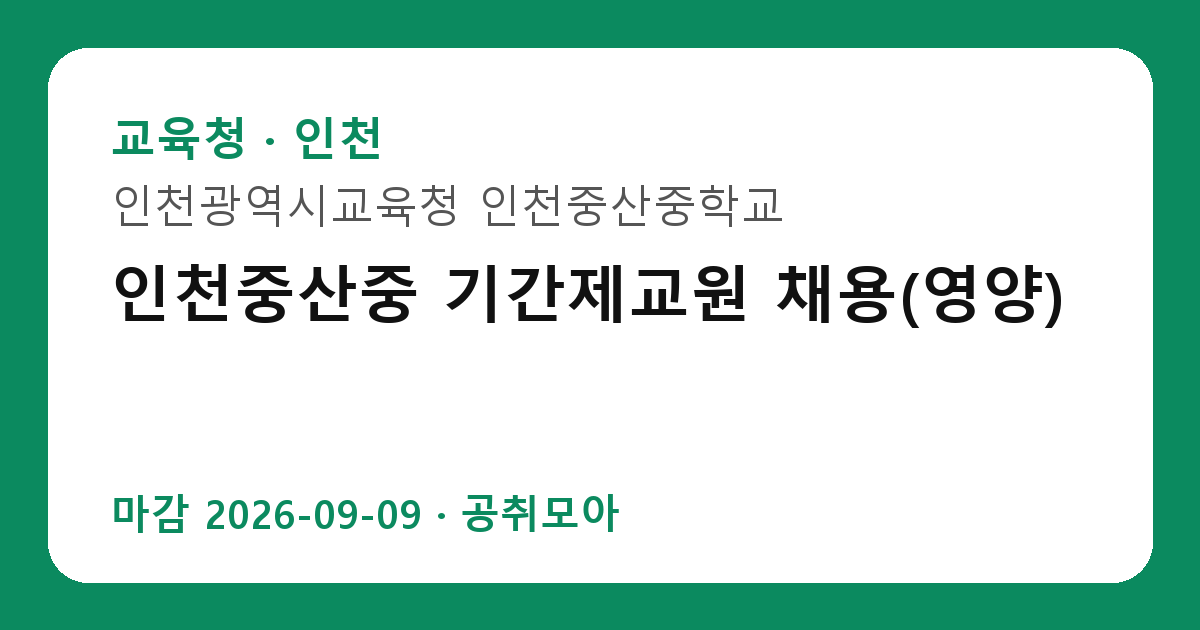
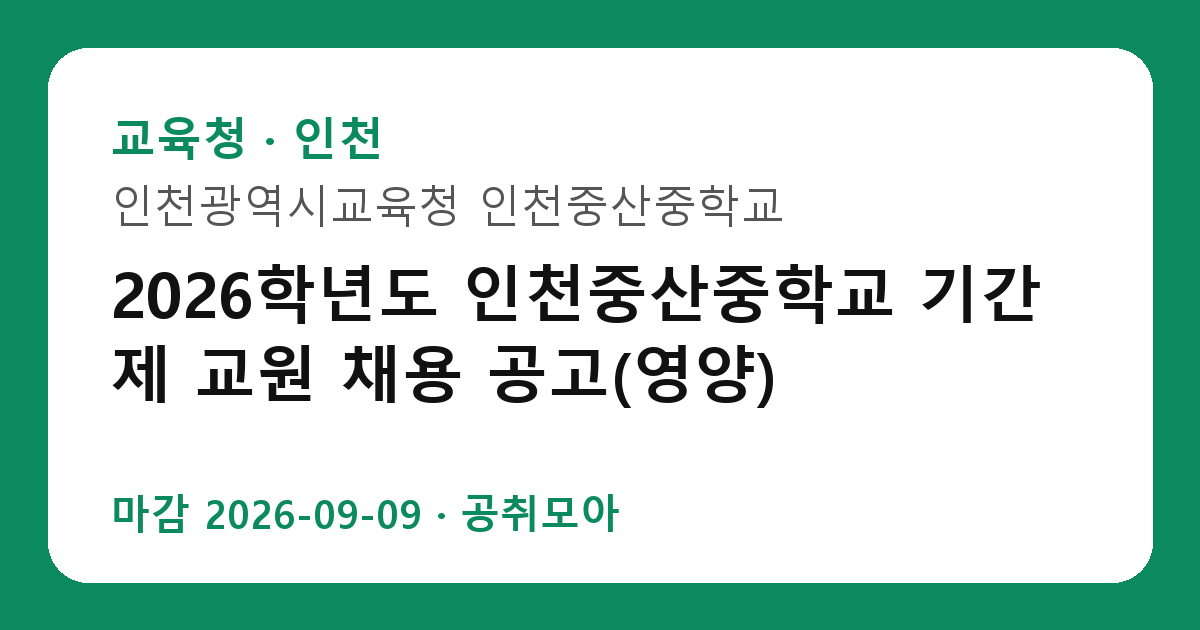
Fix exact posting URLs: 12/12 verified live (empmnsn/idx), real titles

Changed region(s): [[0.0925, 0.4222, 0.8942, 0.5127], [0.0925, 0.5429, 0.6475, 0.6635]]

diff --git a/articles/gojobs-302943.html b/articles/gojobs-302943.html
@@ -1,25 +1,25 @@
 <!DOCTYPE html><html lang="ko"><head><meta charset="UTF-8">
 <meta name="viewport" content="width=device-width, initial-scale=1.0">
-<title>[지자체] 2026년 전주시 홍보담당관(개방형직위) 공개모집 | 공취모아</title>
-<meta name="description" content="전북특별자치도 전주시 2026년 전주시 홍보담당관(개방형직위) 공개모집 정리. 마감 2026-09-21(D-4), 전북·개방형직위. 지원자격·전형·추천대상 해설과 원문 링크.">
-<link rel="canonical" href="https://your-domain/jobs/articles/gojobs-302944.html">
+<title>[지자체] 2026년 전주시 홍보담당관(개방형직위) 공개 모집 | 공취모아</title>
+<meta name="description" content="전북특별자치도 전주시 2026년 전주시 홍보담당관(개방형직위) 공개 모집 정리. 마감 2026-09-21(D-4), 전북·개방형직위. 지원자격·전형·추천대상 해설과 원문 링크.">
+<link rel="canonical" href="https://your-domain/jobs/articles/gojobs-302943.html">
 <meta property="og:type" content="article">
-<meta property="og:title" content="[지자체] 2026년 전주시 홍보담당관(개방형직위) 공개모집 | 공취모아">
-<meta property="og:description" content="전북특별자치도 전주시 2026년 전주시 홍보담당관(개방형직위) 공개모집 정리. 마감 2026-09-21(D-4), 전북·개방형직위. 지원자격·전형·추천대상 해설과 원문 링크.">
-<meta property="og:image" content="https://your-domain/jobs/thumbnails/gojobs-302944.png">
+<meta property="og:title" content="[지자체] 2026년 전주시 홍보담당관(개방형직위) 공개 모집 | 공취모아">
+<meta property="og:description" content="전북특별자치도 전주시 2026년 전주시 홍보담당관(개방형직위) 공개 모집 정리. 마감 2026-09-21(D-4), 전북·개방형직위. 지원자격·전형·추천대상 해설과 원문 링크.">
+<meta property="og:image" content="https://your-domain/jobs/thumbnails/gojobs-302943.png">
 <meta name="google-adsense-account" content="ca-pub-3484572882367046">
 <script async src="https://pagead2.googlesyndication.com/pagead/js/adsbygoogle.js?client=ca-pub-3484572882367046" crossorigin="anonymous"></script>
 <style>*{box-sizing:border-box;margin:0;padding:0}body{font-family:Pretendard,-apple-system,"Noto Sans KR",sans-serif;background:#f4f6fa;color:#222;max-width:760px;margin:0 auto;padding:0 16px 80px}article{background:#fff;border:1px solid #e6ebf4;border-radius:16px;padding:26px 22px;margin-top:18px}h1{font-size:1.35rem;line-height:1.5}h2{font-size:1.08rem;margin:26px 0 10px;padding-left:10px;border-left:4px solid #0b5fff}p,li{line-height:1.8;font-size:.96rem}table{width:100%;border-collapse:collapse;margin:14px 0;font-size:.9rem}th,td{border:1px solid #e2e8f2;padding:9px 10px;text-align:left}th{background:#f2f6ff;width:110px}.lead{background:#f2f6ff;border-radius:12px;padding:14px 16px;margin:16px 0}.cta{display:block;text-align:center;background:#0b5fff;color:#fff;border-radius:12px;padding:14px;margin:20px 0;text-decoration:none;font-weight:700}.back{display:inline-block;margin:18px 0 4px;color:#0b5fff;text-decoration:none}.rel a{display:block;padding:10px 4px;color:#0b5fff;text-decoration:none;border-bottom:1px solid #eef2f9;font-size:.92rem}.muted{color:#888;font-size:.84rem;margin-top:22px}.hero{width:100%;border-radius:12px;margin:14px 0 4px;display:block}</style>
 </head><body><a class="back" href="../">← 공취모아 홈</a><article>
 
-<h1>[지자체] 2026년 전주시 홍보담당관(개방형직위) 공개모집</h1>
+<h1>[지자체] 2026년 전주시 홍보담당관(개방형직위) 공개 모집</h1>
 <p style="color:#666;font-size:.9rem;margin-top:8px">전북특별자치도 전주시 · 전북 · 마감 2026-09-21 <b>(D-4)</b> · 출처 나라일터</p>
-<img class="hero" src="../thumbnails/gojobs-302944.png" alt="2026년 전주시 홍보담당관(개방형직위) 공개모집 썸네일" loading="lazy">
+<img class="hero" src="../thumbnails/gojobs-302943.png" alt="2026년 전주시 홍보담당관(개방형직위) 공개 모집 썸네일" loading="lazy">
 <div class="lead">핵심만 먼저: <b>전북특별자치도 전주시</b>에서 <b>개방형직위</b>을 뽑습니다. 마감이 <b>2026-09-21(D-4)</b>이라 서두르는 게 좋습니다. 지자체 채용은 거주 요건·임용 지역을 먼저 확인하세요. 지역인재 가점이 붙는 경우가 많습니다.</div>
 <h2>한눈에 보는 모집 조건</h2>
 <table>
 <tr><th>기관</th><td>전북특별자치도 전주시</td></tr>
-<tr><th>공고명</th><td>2026년 전주시 홍보담당관(개방형직위) 공개모집</td></tr>
+<tr><th>공고명</th><td>2026년 전주시 홍보담당관(개방형직위) 공개 모집</td></tr>
 <tr><th>고용형태</th><td>개방형직위</td></tr>
 <tr><th>근무지</th><td>전북</td></tr>
 <tr><th>게시일</th><td>2026-09-04</td></tr>
@@ -56,9 +56,9 @@
 <ul>
 <li><b>마감일(2026-09-21)을 넘기면 지원할 수 있나요?</b><br>없습니다. 공공 채용은 마감 시각 이후 접수를 받지 않습니다. 시스템 마감 1시간 전에는 대기열이 길어지니 D-4을 보고 미리 제출하세요.</li><li><b>전북 외 거주자도 지원 가능한가요?</b><br>공고에 거주 제한이 별도로 없으면 전국 지원이 가능합니다. 다만 일부 지자체·교육청 공고는 거주·이전 조건이 붙으니 원문 응시자격란을 확인하세요.</li><li><b>개방형직위 전형에서 가장 중요한 서류는 무엇인가요?</b><br>직무 연관성을 보여주는 자기소개서와 증빙(자격증·경력증명서)입니다. 전북특별자치도 전주시 심사는 정량(자격·경력)과 정성(지원동기·직무이해)을 함께 봅니다.</li>
 </ul>
-<a class="cta" href="https://www.gojobs.go.kr/apmView.do?empmnsn=302944&menuNo=401&selMenuNo=400" target="_blank" rel="noopener">원문 공고문 확인하고 지원하기 ↗</a>
+<a class="cta" href="https://www.gojobs.go.kr/apmView.do?empmnsn=302943&menuNo=401&selMenuNo=400" target="_blank" rel="noopener">원문 공고문 확인하고 지원하기 ↗</a>
 
-<div class="rel"><h2>함께 보면 좋은 공고</h2><a href="gojobs-302941.html">[지자체] 충북 산림바이오센터 연구보조 기간제근로자 모집 — 마감 2026-09-14</a><a href="gojobs-302789.html">[교육청] 인천중산중 기간제교원 채용(영양) — 마감 2026-09-09</a><a href="gojobs-302934.html">[교육청] 2026학년도 충훈고 시간강사 채용(체육) — 마감 2026-09-10</a></div>
+<div class="rel"><h2>함께 보면 좋은 공고</h2><a href="gojobs-302941.html">[지자체] 2026년 산림바이오센터 연구 보조 기간제근로자 모집공고 — 마감 2026-09-14</a><a href="gojobs-302789.html">[교육청] 2026학년도 인천중산중학교 기간제 교원 채용 공고(영양) — 마감 2026-09-09</a><a href="gojobs-302934.html">[교육청] 2026학년도 충훈고 시간강사 채용(체육) — 마감 2026-09-10</a></div>
 <p class="muted">출처: 나라일터 공개정보를 바탕으로 공취모아가 정리한 안내글입니다. 모집 조건·일정은 변경될 수 있으니 지원 전 반드시 원문 공고문을 확인하세요. 본 글은 정보 제공용이며 합격을 보장하지 않습니다.</p>
 </article>
 <footer style="text-align:center;color:#888;font-size:.82rem;margin:30px 0;line-height:2"><a style="color:#888" href="../about.html">소개</a>·<a style="color:#888" href="../privacy.html">개인정보</a>·<a style="color:#888" href="../terms.html">약관</a>·<a style="color:#888" href="../contact.html">문의</a></footer>

diff --git a/articles/gojobs-302940.html b/articles/gojobs-302940.html
@@ -1,25 +1,25 @@
 <!DOCTYPE html><html lang="ko"><head><meta charset="UTF-8">
 <meta name="viewport" content="width=device-width, initial-scale=1.0">
-<title>[교육청] 전북교육청 지방일반임기제 공무원(인권상담·조사) 채용 | 공취모아</title>
-<meta name="description" content="전북특별자치도교육청 전북교육청 지방일반임기제 공무원(인권상담·조사) 채용 정리. 마감 2026-09-14(마감), 전북·임기제. 지원자격·전형·추천대상 해설과 원문 링크.">
+<title>[교육청] 전북특별자치도교육청 지방일반임기제공무원(인권침해상담·조사분야) 경력경쟁임용시험 시행 계획 공고 | 공취모아</title>
+<meta name="description" content="전북특별자치도교육청 전북특별자치도교육청 지방일반임기제공무원(인권침해상담·조사분야) 경력경쟁임용시험 시행 계획 공고 정리. 마감 2026-09-14(마감), 전북·임기제. 지원자격·전형·추천대상 해설과 원문 링크.">
 <link rel="canonical" href="https://your-domain/jobs/articles/gojobs-302940.html">
 <meta property="og:type" content="article">
-<meta property="og:title" content="[교육청] 전북교육청 지방일반임기제 공무원(인권상담·조사) 채용 | 공취모아">
-<meta property="og:description" content="전북특별자치도교육청 전북교육청 지방일반임기제 공무원(인권상담·조사) 채용 정리. 마감 2026-09-14(마감), 전북·임기제. 지원자격·전형·추천대상 해설과 원문 링크.">
+<meta property="og:title" content="[교육청] 전북특별자치도교육청 지방일반임기제공무원(인권침해상담·조사분야) 경력경쟁임용시험 시행 계획 공고 | 공취모아">
+<meta property="og:description" content="전북특별자치도교육청 전북특별자치도교육청 지방일반임기제공무원(인권침해상담·조사분야) 경력경쟁임용시험 시행 계획 공고 정리. 마감 2026-09-14(마감), 전북·임기제. 지원자격·전형·추천대상 해설과 원문 링크.">
 <meta property="og:image" content="https://your-domain/jobs/thumbnails/gojobs-302940.png">
 <meta name="google-adsense-account" content="ca-pub-3484572882367046">
 <script async src="https://pagead2.googlesyndication.com/pagead/js/adsbygoogle.js?client=ca-pub-3484572882367046" crossorigin="anonymous"></script>
 <style>*{box-sizing:border-box;margin:0;padding:0}body{font-family:Pretendard,-apple-system,"Noto Sans KR",sans-serif;background:#f4f6fa;color:#222;max-width:760px;margin:0 auto;padding:0 16px 80px}article{background:#fff;border:1px solid #e6ebf4;border-radius:16px;padding:26px 22px;margin-top:18px}h1{font-size:1.35rem;line-height:1.5}h2{font-size:1.08rem;margin:26px 0 10px;padding-left:10px;border-left:4px solid #0b5fff}p,li{line-height:1.8;font-size:.96rem}table{width:100%;border-collapse:collapse;margin:14px 0;font-size:.9rem}th,td{border:1px solid #e2e8f2;padding:9px 10px;text-align:left}th{background:#f2f6ff;width:110px}.lead{background:#f2f6ff;border-radius:12px;padding:14px 16px;margin:16px 0}.cta{display:block;text-align:center;background:#0b5fff;color:#fff;border-radius:12px;padding:14px;margin:20px 0;text-decoration:none;font-weight:700}.back{display:inline-block;margin:18px 0 4px;color:#0b5fff;text-decoration:none}.rel a{display:block;padding:10px 4px;color:#0b5fff;text-decoration:none;border-bottom:1px solid #eef2f9;font-size:.92rem}.muted{color:#888;font-size:.84rem;margin-top:22px}.hero{width:100%;border-radius:12px;margin:14px 0 4px;display:block}</style>
 </head><body><a class="back" href="../">← 공취모아 홈</a><article>
 
-<h1>[교육청] 전북교육청 지방일반임기제 공무원(인권상담·조사) 채용</h1>
+<h1>[교육청] 전북특별자치도교육청 지방일반임기제공무원(인권침해상담·조사분야) 경력경쟁임용시험 시행 계획 공고</h1>
 <p style="color:#666;font-size:.9rem;margin-top:8px">전북특별자치도교육청 · 전북 · 마감 2026-09-14 <b>(마감)</b> · 출처 나라일터</p>
-<img class="hero" src="../thumbnails/gojobs-302940.png" alt="전북교육청 지방일반임기제 공무원(인권상담·조사) 채용 썸네일" loading="lazy">
+<img class="hero" src="../thumbnails/gojobs-302940.png" alt="전북특별자치도교육청 지방일반임기제공무원(인권침해상담·조사분야) 경력경쟁임용시험 시행 계획 공고 썸네일" loading="lazy">
 <div class="lead">핵심만 먼저: <b>전북특별자치도교육청</b>에서 <b>임기제</b>을 뽑습니다. 마감이 <b>2026-09-14(마감)</b>이라 서두르는 게 좋습니다. 교육청·학교 채용은 거주지·자격증 요건을 먼저 확인하는 게 시간을 아끼는 지름길입니다. 공고문 1쪽의 응시자격 표를 끝까지 읽어보세요.</div>
 <h2>한눈에 보는 모집 조건</h2>
 <table>
 <tr><th>기관</th><td>전북특별자치도교육청</td></tr>
-<tr><th>공고명</th><td>전북교육청 지방일반임기제 공무원(인권상담·조사) 채용</td></tr>
+<tr><th>공고명</th><td>전북특별자치도교육청 지방일반임기제공무원(인권침해상담·조사분야) 경력경쟁임용시험 시행 계획 공고</td></tr>
 <tr><th>고용형태</th><td>임기제</td></tr>
 <tr><th>근무지</th><td>전북</td></tr>
 <tr><th>게시일</th><td>2026-09-04</td></tr>
@@ -58,7 +58,7 @@
 </ul>
 <a class="cta" href="https://www.gojobs.go.kr/apmView.do?empmnsn=302940&menuNo=401&selMenuNo=400" target="_blank" rel="noopener">원문 공고문 확인하고 지원하기 ↗</a>
 
-<div class="rel"><h2>함께 보면 좋은 공고</h2><a href="gojobs-302934.html">[교육청] 2026학년도 충훈고 시간강사 채용(체육) — 마감 2026-09-10</a><a href="gojobs-302789.html">[교육청] 인천중산중 기간제교원 채용(영양) — 마감 2026-09-09</a><a href="alio-304400.html">[공기업] 2026년도 예금보험공사 신입직원 채용 (35명) — 마감 2026-09-11</a></div>
+<div class="rel"><h2>함께 보면 좋은 공고</h2><a href="gojobs-302934.html">[교육청] 2026학년도 충훈고 시간강사 채용(체육) — 마감 2026-09-10</a><a href="gojobs-302789.html">[교육청] 2026학년도 인천중산중학교 기간제 교원 채용 공고(영양) — 마감 2026-09-09</a><a href="alio-304400.html">[공기업] 2026년도 예금보험공사 신입직원 채용 (35명) — 마감 2026-09-11</a></div>
 <p class="muted">출처: 나라일터 공개정보를 바탕으로 공취모아가 정리한 안내글입니다. 모집 조건·일정은 변경될 수 있으니 지원 전 반드시 원문 공고문을 확인하세요. 본 글은 정보 제공용이며 합격을 보장하지 않습니다.</p>
 </article>
 <footer style="text-align:center;color:#888;font-size:.82rem;margin:30px 0;line-height:2"><a style="color:#888" href="../about.html">소개</a>·<a style="color:#888" href="../privacy.html">개인정보</a>·<a style="color:#888" href="../terms.html">약관</a>·<a style="color:#888" href="../contact.html">문의</a></footer>

diff --git a/articles/gojobs-302789.html b/articles/gojobs-302789.html
@@ -1,25 +1,25 @@
 <!DOCTYPE html><html lang="ko"><head><meta charset="UTF-8">
 <meta name="viewport" content="width=device-width, initial-scale=1.0">
-<title>[교육청] 인천중산중 기간제교원 채용(영양) | 공취모아</title>
-<meta name="description" content="인천광역시교육청 인천중산중학교 인천중산중 기간제교원 채용(영양) 정리. 마감 2026-09-09(마감), 인천·기간제교사. 지원자격·전형·추천대상 해설과 원문 링크.">
+<title>[교육청] 2026학년도 인천중산중학교 기간제 교원 채용 공고(영양) | 공취모아</title>
+<meta name="description" content="인천광역시교육청 인천중산중학교 2026학년도 인천중산중학교 기간제 교원 채용 공고(영양) 정리. 마감 2026-09-09(마감), 인천·기간제교사. 지원자격·전형·추천대상 해설과 원문 링크.">
 <link rel="canonical" href="https://your-domain/jobs/articles/gojobs-302789.html">
 <meta property="og:type" content="article">
-<meta property="og:title" content="[교육청] 인천중산중 기간제교원 채용(영양) | 공취모아">
-<meta property="og:description" content="인천광역시교육청 인천중산중학교 인천중산중 기간제교원 채용(영양) 정리. 마감 2026-09-09(마감), 인천·기간제교사. 지원자격·전형·추천대상 해설과 원문 링크.">
+<meta property="og:title" content="[교육청] 2026학년도 인천중산중학교 기간제 교원 채용 공고(영양) | 공취모아">
+<meta property="og:description" content="인천광역시교육청 인천중산중학교 2026학년도 인천중산중학교 기간제 교원 채용 공고(영양) 정리. 마감 2026-09-09(마감), 인천·기간제교사. 지원자격·전형·추천대상 해설과 원문 링크.">
 <meta property="og:image" content="https://your-domain/jobs/thumbnails/gojobs-302789.png">
 <meta name="google-adsense-account" content="ca-pub-3484572882367046">
 <script async src="https://pagead2.googlesyndication.com/pagead/js/adsbygoogle.js?client=ca-pub-3484572882367046" crossorigin="anonymous"></script>
 <style>*{box-sizing:border-box;margin:0;padding:0}body{font-family:Pretendard,-apple-system,"Noto Sans KR",sans-serif;background:#f4f6fa;color:#222;max-width:760px;margin:0 auto;padding:0 16px 80px}article{background:#fff;border:1px solid #e6ebf4;border-radius:16px;padding:26px 22px;margin-top:18px}h1{font-size:1.35rem;line-height:1.5}h2{font-size:1.08rem;margin:26px 0 10px;padding-left:10px;border-left:4px solid #0b5fff}p,li{line-height:1.8;font-size:.96rem}table{width:100%;border-collapse:collapse;margin:14px 0;font-size:.9rem}th,td{border:1px solid #e2e8f2;padding:9px 10px;text-align:left}th{background:#f2f6ff;width:110px}.lead{background:#f2f6ff;border-radius:12px;padding:14px 16px;margin:16px 0}.cta{display:block;text-align:center;background:#0b5fff;color:#fff;border-radius:12px;padding:14px;margin:20px 0;text-decoration:none;font-weight:700}.back{display:inline-block;margin:18px 0 4px;color:#0b5fff;text-decoration:none}.rel a{display:block;padding:10px 4px;color:#0b5fff;text-decoration:none;border-bottom:1px solid #eef2f9;font-size:.92rem}.muted{color:#888;font-size:.84rem;margin-top:22px}.hero{width:100%;border-radius:12px;margin:14px 0 4px;display:block}</style>
 </head><body><a class="back" href="../">← 공취모아 홈</a><article>
 
-<h1>[교육청] 인천중산중 기간제교원 채용(영양)</h1>
+<h1>[교육청] 2026학년도 인천중산중학교 기간제 교원 채용 공고(영양)</h1>
 <p style="color:#666;font-size:.9rem;margin-top:8px">인천광역시교육청 인천중산중학교 · 인천 · 마감 2026-09-09 <b>(마감)</b> · 출처 나라일터</p>
-<img class="hero" src="../thumbnails/gojobs-302789.png" alt="인천중산중 기간제교원 채용(영양) 썸네일" loading="lazy">
+<img class="hero" src="../thumbnails/gojobs-302789.png" alt="2026학년도 인천중산중학교 기간제 교원 채용 공고(영양) 썸네일" loading="lazy">
 <div class="lead">핵심만 먼저: <b>인천광역시교육청 인천중산중학교</b>에서 <b>기간제교사</b>을 뽑습니다. 마감이 <b>2026-09-09(마감)</b>이라 서두르는 게 좋습니다. 교육청·학교 채용은 거주지·자격증 요건을 먼저 확인하는 게 시간을 아끼는 지름길입니다. 공고문 1쪽의 응시자격 표를 끝까지 읽어보세요.</div>
 <h2>한눈에 보는 모집 조건</h2>
 <table>
 <tr><th>기관</th><td>인천광역시교육청 인천중산중학교</td></tr>
-<tr><th>공고명</th><td>인천중산중 기간제교원 채용(영양)</td></tr>
+<tr><th>공고명</th><td>2026학년도 인천중산중학교 기간제 교원 채용 공고(영양)</td></tr>
 <tr><th>고용형태</th><td>기간제교사</td></tr>
 <tr><th>근무지</th><td>인천</td></tr>
 <tr><th>게시일</th><td>2026-09-07</td></tr>
@@ -58,7 +58,7 @@
 </ul>
 <a class="cta" href="https://www.gojobs.go.kr/apmView.do?empmnsn=302789&menuNo=401&selMenuNo=400" target="_blank" rel="noopener">원문 공고문 확인하고 지원하기 ↗</a>
 
-<div class="rel"><h2>함께 보면 좋은 공고</h2><a href="gojobs-302940.html">[교육청] 전북교육청 지방일반임기제 공무원(인권상담·조사) 채용 — 마감 2026-09-14</a><a href="gojobs-302934.html">[교육청] 2026학년도 충훈고 시간강사 채용(체육) — 마감 2026-09-10</a><a href="alio-304400.html">[공기업] 2026년도 예금보험공사 신입직원 채용 (35명) — 마감 2026-09-11</a></div>
+<div class="rel"><h2>함께 보면 좋은 공고</h2><a href="gojobs-302940.html">[교육청] 전북특별자치도교육청 지방일반임기제공무원(인권침해상담·조사분야) 경력경쟁임용시험 시행 계획 공고 — 마감 2026-09-14</a><a href="gojobs-302934.html">[교육청] 2026학년도 충훈고 시간강사 채용(체육) — 마감 2026-09-10</a><a href="alio-304400.html">[공기업] 2026년도 예금보험공사 신입직원 채용 (35명) — 마감 2026-09-11</a></div>
 <p class="muted">출처: 나라일터 공개정보를 바탕으로 공취모아가 정리한 안내글입니다. 모집 조건·일정은 변경될 수 있으니 지원 전 반드시 원문 공고문을 확인하세요. 본 글은 정보 제공용이며 합격을 보장하지 않습니다.</p>
 </article>
 <footer style="text-align:center;color:#888;font-size:.82rem;margin:30px 0;line-height:2"><a style="color:#888" href="../about.html">소개</a>·<a style="color:#888" href="../privacy.html">개인정보</a>·<a style="color:#888" href="../terms.html">약관</a>·<a style="color:#888" href="../contact.html">문의</a></footer>

diff --git a/articles/gojobs-302941.html b/articles/gojobs-302941.html
@@ -1,25 +1,25 @@
 <!DOCTYPE html><html lang="ko"><head><meta charset="UTF-8">
 <meta name="viewport" content="width=device-width, initial-scale=1.0">
-<title>[지자체] 충북 산림바이오센터 연구보조 기간제근로자 모집 | 공취모아</title>
-<meta name="description" content="충청북도 산림환경연구소 충북 산림바이오센터 연구보조 기간제근로자 모집 정리. 마감 2026-09-14(마감), 충북·기간제. 지원자격·전형·추천대상 해설과 원문 링크.">
+<title>[지자체] 2026년 산림바이오센터 연구 보조 기간제근로자 모집공고 | 공취모아</title>
+<meta name="description" content="충청북도 산림환경연구소 2026년 산림바이오센터 연구 보조 기간제근로자 모집공고 정리. 마감 2026-09-14(마감), 충북·기간제. 지원자격·전형·추천대상 해설과 원문 링크.">
 <link rel="canonical" href="https://your-domain/jobs/articles/gojobs-302941.html">
 <meta property="og:type" content="article">
-<meta property="og:title" content="[지자체] 충북 산림바이오센터 연구보조 기간제근로자 모집 | 공취모아">
-<meta property="og:description" content="충청북도 산림환경연구소 충북 산림바이오센터 연구보조 기간제근로자 모집 정리. 마감 2026-09-14(마감), 충북·기간제. 지원자격·전형·추천대상 해설과 원문 링크.">
+<meta property="og:title" content="[지자체] 2026년 산림바이오센터 연구 보조 기간제근로자 모집공고 | 공취모아">
+<meta property="og:description" content="충청북도 산림환경연구소 2026년 산림바이오센터 연구 보조 기간제근로자 모집공고 정리. 마감 2026-09-14(마감), 충북·기간제. 지원자격·전형·추천대상 해설과 원문 링크.">
 <meta property="og:image" content="https://your-domain/jobs/thumbnails/gojobs-302941.png">
 <meta name="google-adsense-account" content="ca-pub-3484572882367046">
 <script async src="https://pagead2.googlesyndication.com/pagead/js/adsbygoogle.js?client=ca-pub-3484572882367046" crossorigin="anonymous"></script>
 <style>*{box-sizing:border-box;margin:0;padding:0}body{font-family:Pretendard,-apple-system,"Noto Sans KR",sans-serif;background:#f4f6fa;color:#222;max-width:760px;margin:0 auto;padding:0 16px 80px}article{background:#fff;border:1px solid #e6ebf4;border-radius:16px;padding:26px 22px;margin-top:18px}h1{font-size:1.35rem;line-height:1.5}h2{font-size:1.08rem;margin:26px 0 10px;padding-left:10px;border-left:4px solid #0b5fff}p,li{line-height:1.8;font-size:.96rem}table{width:100%;border-collapse:collapse;margin:14px 0;font-size:.9rem}th,td{border:1px solid #e2e8f2;padding:9px 10px;text-align:left}th{background:#f2f6ff;width:110px}.lead{background:#f2f6ff;border-radius:12px;padding:14px 16px;margin:16px 0}.cta{display:block;text-align:center;background:#0b5fff;color:#fff;border-radius:12px;padding:14px;margin:20px 0;text-decoration:none;font-weight:700}.back{display:inline-block;margin:18px 0 4px;color:#0b5fff;text-decoration:none}.rel a{display:block;padding:10px 4px;color:#0b5fff;text-decoration:none;border-bottom:1px solid #eef2f9;font-size:.92rem}.muted{color:#888;font-size:.84rem;margin-top:22px}.hero{width:100%;border-radius:12px;margin:14px 0 4px;display:block}</style>
 </head><body><a class="back" href="../">← 공취모아 홈</a><article>
 
-<h1>[지자체] 충북 산림바이오센터 연구보조 기간제근로자 모집</h1>
+<h1>[지자체] 2026년 산림바이오센터 연구 보조 기간제근로자 모집공고</h1>
 <p style="color:#666;font-size:.9rem;margin-top:8px">충청북도 산림환경연구소 · 충북 · 마감 2026-09-14 <b>(마감)</b> · 출처 나라일터</p>
-<img class="hero" src="../thumbnails/gojobs-302941.png" alt="충북 산림바이오센터 연구보조 기간제근로자 모집 썸네일" loading="lazy">
+<img class="hero" src="../thumbnails/gojobs-302941.png" alt="2026년 산림바이오센터 연구 보조 기간제근로자 모집공고 썸네일" loading="lazy">
 <div class="lead">핵심만 먼저: <b>충청북도 산림환경연구소</b>에서 <b>기간제</b>을 뽑습니다. 마감이 <b>2026-09-14(마감)</b>이라 서두르는 게 좋습니다. 지자체 채용은 거주 요건·임용 지역을 먼저 확인하세요. 지역인재 가점이 붙는 경우가 많습니다.</div>
 <h2>한눈에 보는 모집 조건</h2>
 <table>
 <tr><th>기관</th><td>충청북도 산림환경연구소</td></tr>
-<tr><th>공고명</th><td>충북 산림바이오센터 연구보조 기간제근로자 모집</td></tr>
+<tr><th>공고명</th><td>2026년 산림바이오센터 연구 보조 기간제근로자 모집공고</td></tr>
 <tr><th>고용형태</th><td>기간제</td></tr>
 <tr><th>근무지</th><td>충북</td></tr>
 <tr><th>게시일</th><td>2026-09-04</td></tr>
@@ -58,7 +58,7 @@
 </ul>
 <a class="cta" href="https://www.gojobs.go.kr/apmView.do?empmnsn=302941&menuNo=401&selMenuNo=400" target="_blank" rel="noopener">원문 공고문 확인하고 지원하기 ↗</a>
 
-<div class="rel"><h2>함께 보면 좋은 공고</h2><a href="gojobs-302944.html">[지자체] 2026년 전주시 홍보담당관(개방형직위) 공개모집 — 마감 2026-09-21</a><a href="gojobs-302789.html">[교육청] 인천중산중 기간제교원 채용(영양) — 마감 2026-09-09</a><a href="gojobs-302934.html">[교육청] 2026학년도 충훈고 시간강사 채용(체육) — 마감 2026-09-10</a></div>
+<div class="rel"><h2>함께 보면 좋은 공고</h2><a href="gojobs-302943.html">[지자체] 2026년 전주시 홍보담당관(개방형직위) 공개 모집 — 마감 2026-09-21</a><a href="gojobs-302789.html">[교육청] 2026학년도 인천중산중학교 기간제 교원 채용 공고(영양) — 마감 2026-09-09</a><a href="gojobs-302934.html">[교육청] 2026학년도 충훈고 시간강사 채용(체육) — 마감 2026-09-10</a></div>
 <p class="muted">출처: 나라일터 공개정보를 바탕으로 공취모아가 정리한 안내글입니다. 모집 조건·일정은 변경될 수 있으니 지원 전 반드시 원문 공고문을 확인하세요. 본 글은 정보 제공용이며 합격을 보장하지 않습니다.</p>
 </article>
 <footer style="text-align:center;color:#888;font-size:.82rem;margin:30px 0;line-height:2"><a style="color:#888" href="../about.html">소개</a>·<a style="color:#888" href="../privacy.html">개인정보</a>·<a style="color:#888" href="../terms.html">약관</a>·<a style="color:#888" href="../contact.html">문의</a></footer>
